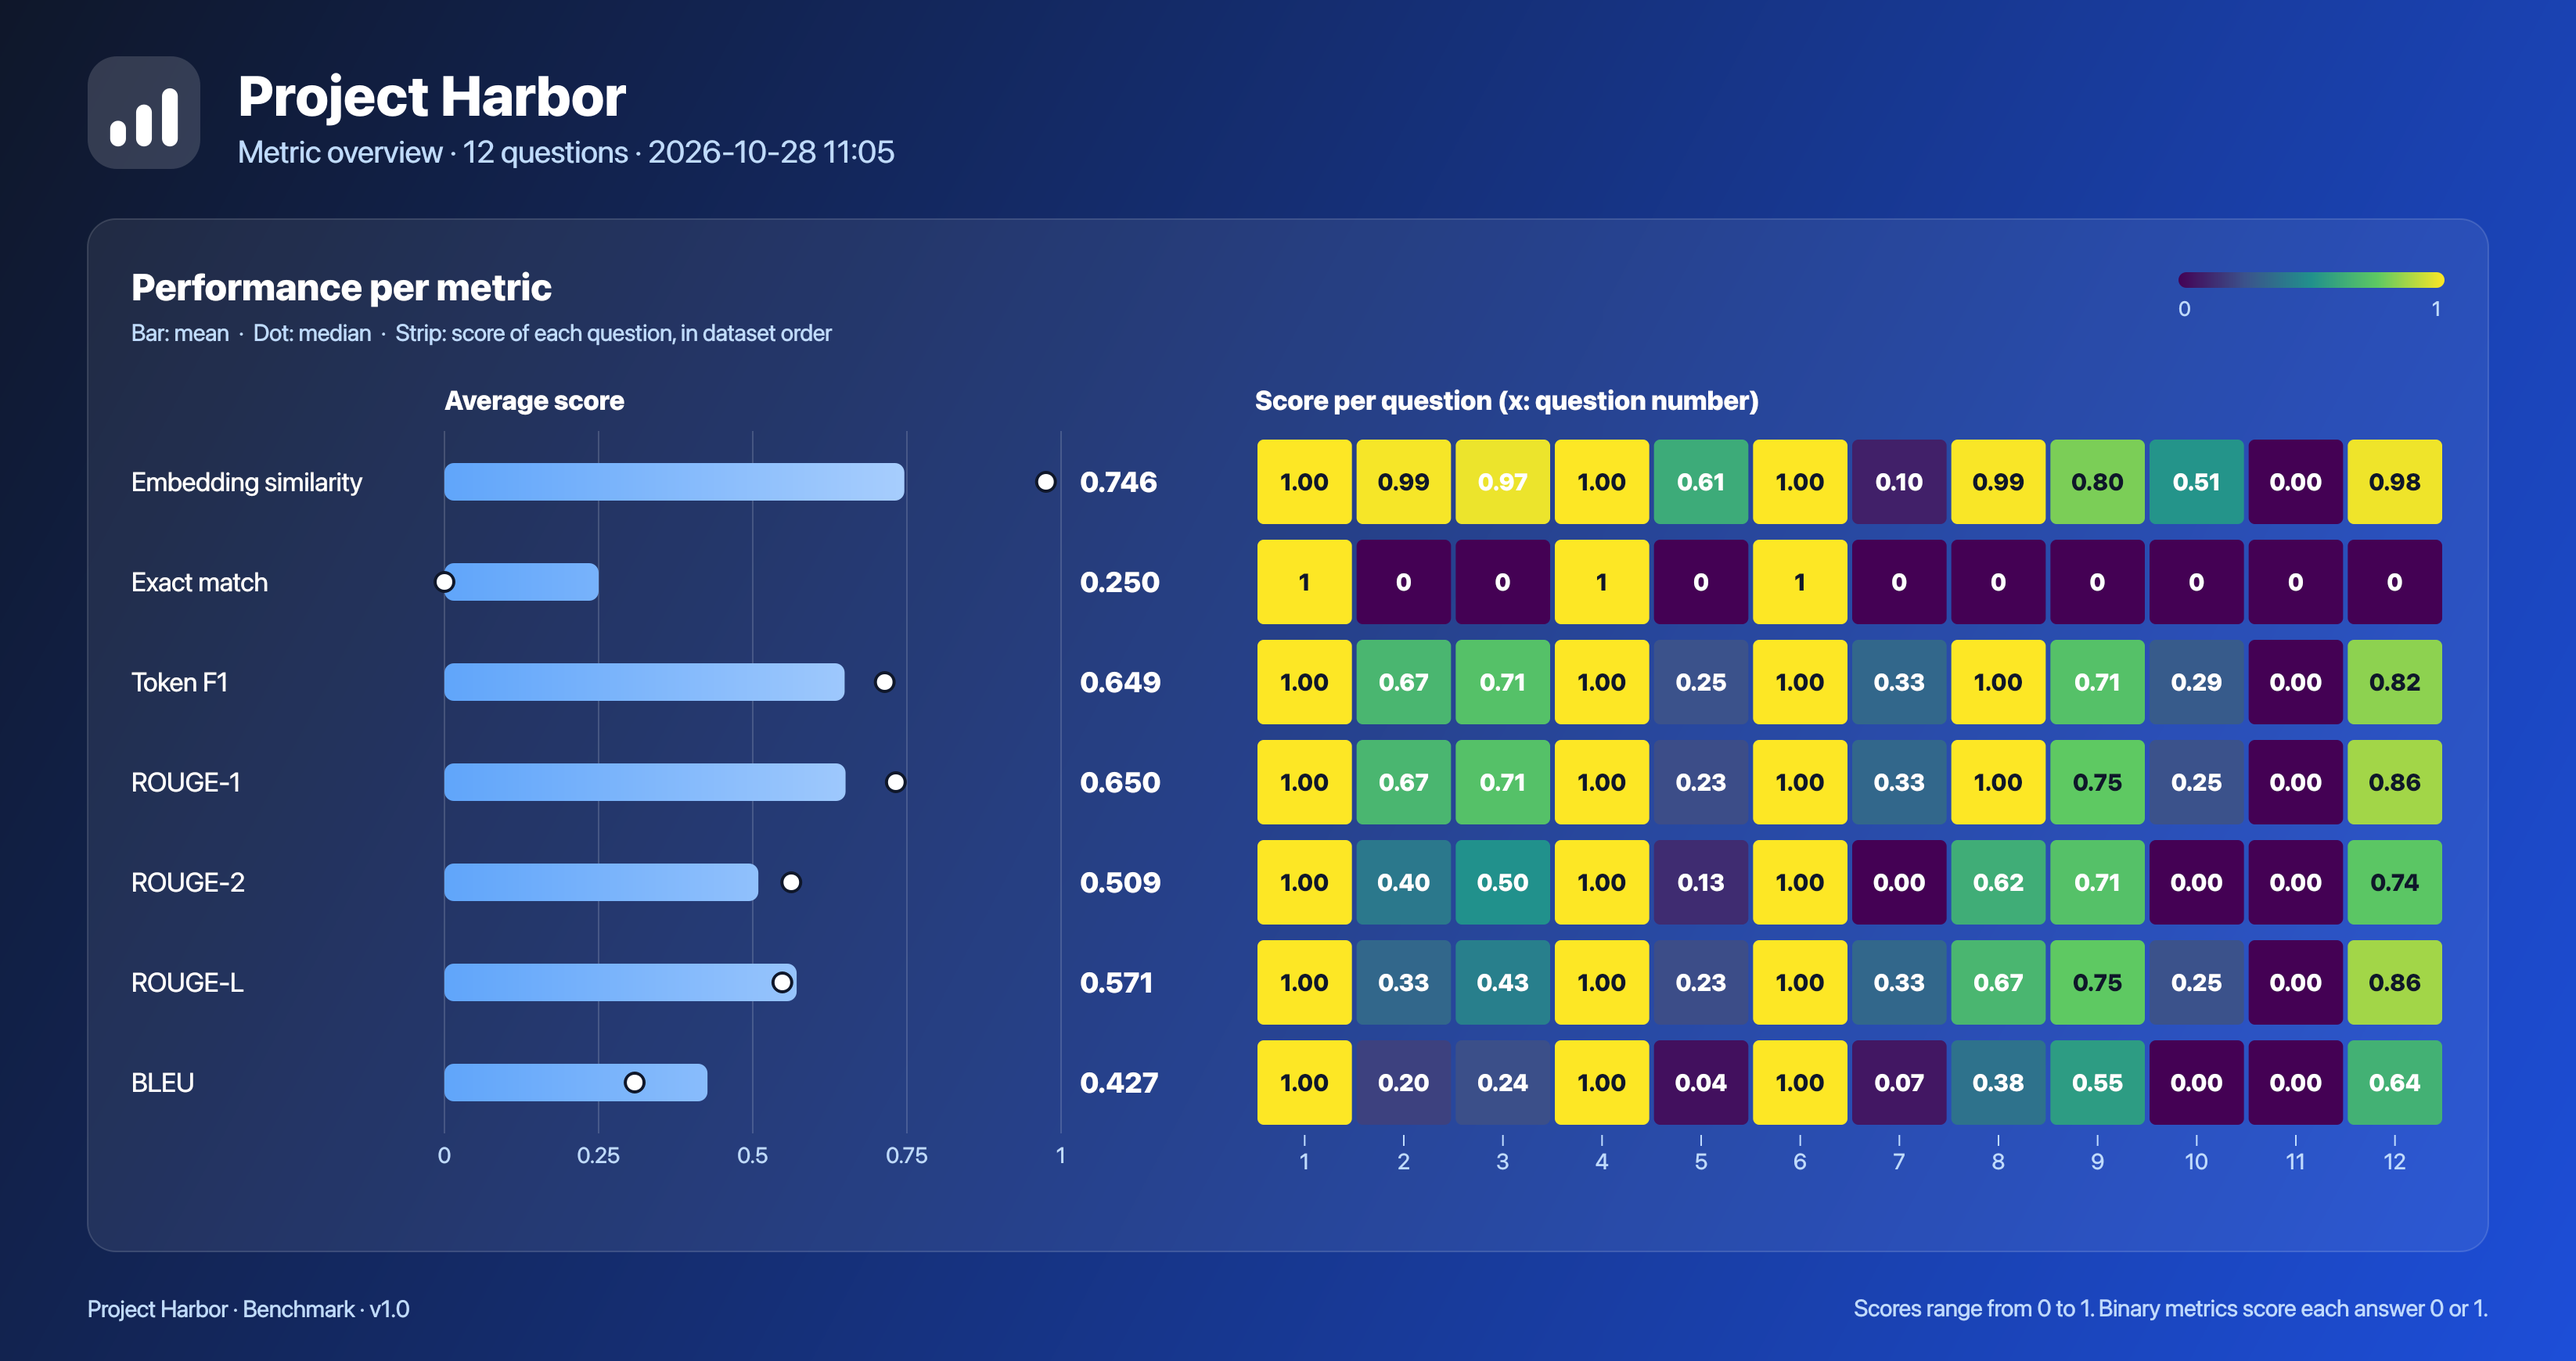
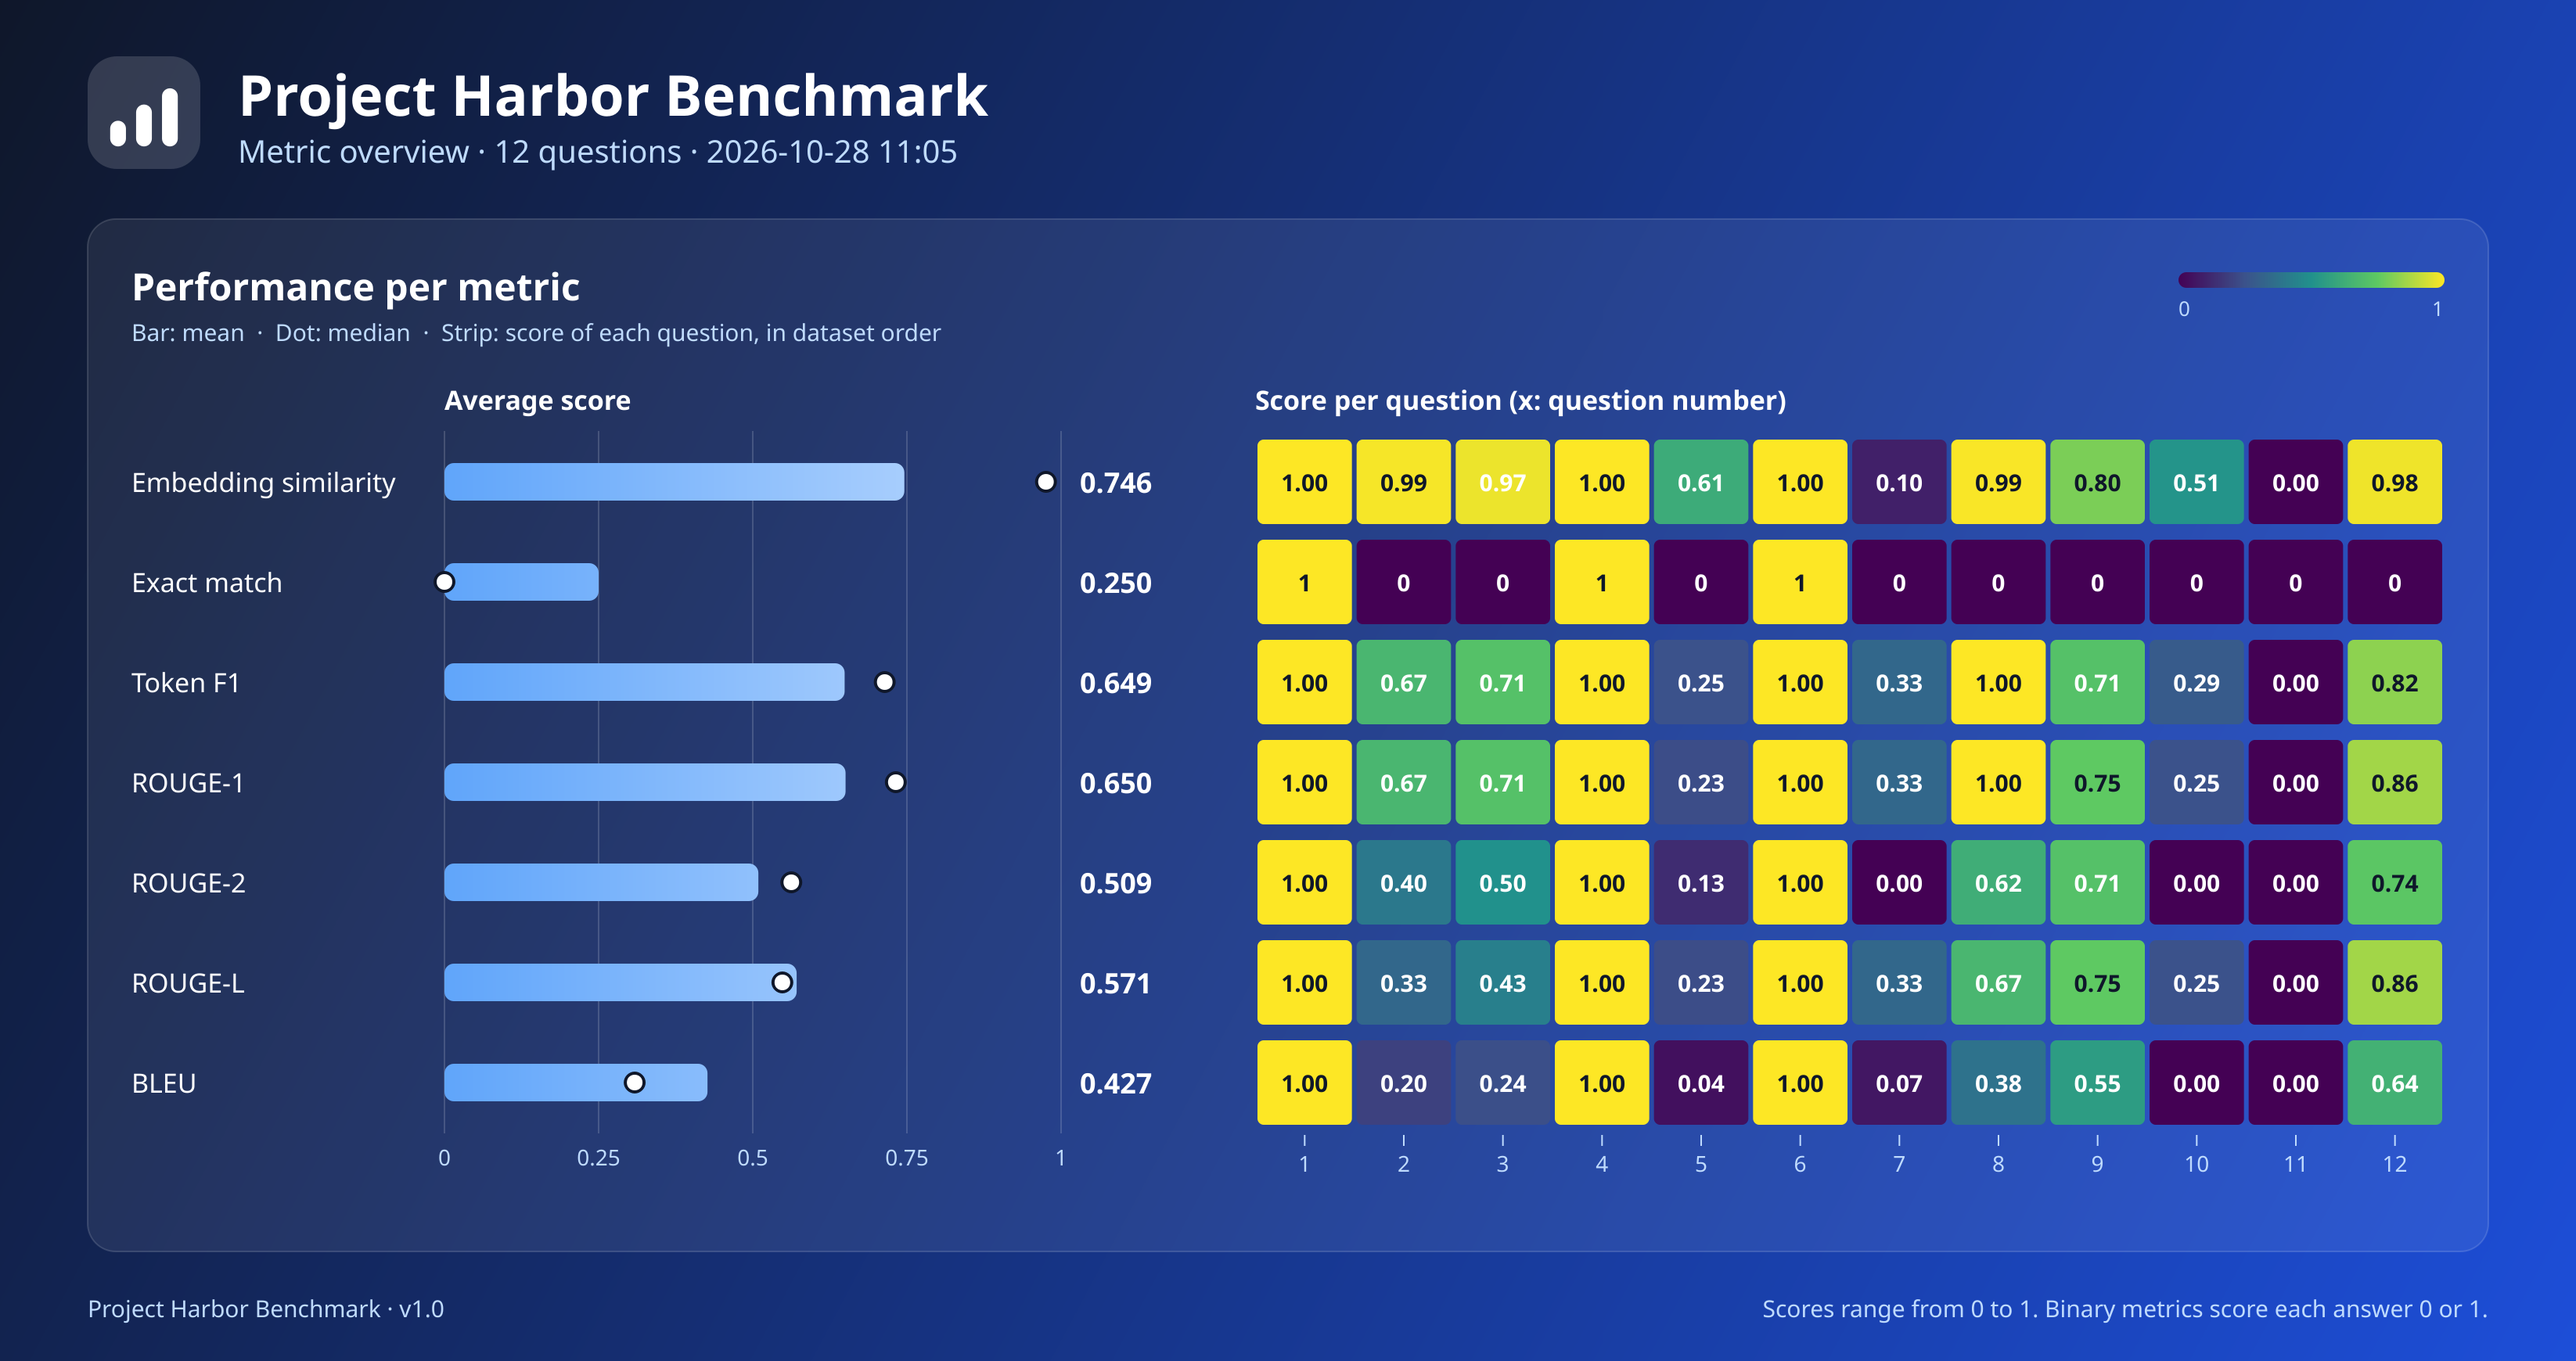
feat: rename app and repository to Project Harbor Benchmark

diff --git a/presentation/views/main_window.py b/presentation/views/main_window.py
@@ -32,7 +32,7 @@ from presentation.views.overview_chart import render_overview_chart
 from presentation.views.theme import MAIN_WINDOW_STYLE
 from presentation.views.themed_combo_box import ThemedComboBox
 
-WINDOW_TITLE = "Project Harbor - Benchmark - v1.0"
+WINDOW_TITLE = "Project Harbor Benchmark - v1.0"
 DEMO_TITLE_SUFFIX = " (Demo)"
 WINDOW_WIDTH = 1100
 WINDOW_HEIGHT = 820

diff --git a/presentation/views/branding.py b/presentation/views/branding.py
@@ -1,5 +1,5 @@
-APPLICATION_NAME = "Project Harbor"
-APPLICATION_SUBTITLE = "Benchmark · v1.0"
+APPLICATION_NAME = "Project Harbor Benchmark"
+APPLICATION_SUBTITLE = "v1.0"
 
 GRADIENT_START = "#0f172a"
 GRADIENT_END = "#1d4ed8"

diff --git a/README.md b/README.md
@@ -1,8 +1,8 @@
 <div align="center">
 
-<img src="packaging/linux/llm-evaluator.png" alt="Project Harbor logo" width="128" height="128" />
+<img src="packaging/linux/llm-evaluator.png" alt="Project Harbor Benchmark logo" width="128" height="128" />
 
-# Project Harbor
+# Project Harbor Benchmark
 
 ### A desktop benchmark for local LLMs, scored against a fixed question set.
 
@@ -22,12 +22,12 @@
 <br />
 
 <div align="center">
-<img src="docs/assets/overview.png" alt="Metric overview chart exported by Project Harbor" width="900" />
+<img src="docs/assets/overview.png" alt="Metric overview chart exported by Project Harbor Benchmark" width="900" />
 </div>
 
 <br />
 
-Project Harbor lets a team evaluate different LLM approaches on the same dataset in the same way. For each question, the app calls your model through an OpenAI-compatible endpoint (for example `http://127.0.0.1:1234/v1/chat/completions`), compares the answer with the expected one, and scores it from 0 to 1. The embedding model ships inside the app, so there is no internet connection and no external API key involved.
+Project Harbor Benchmark lets a team evaluate different LLM approaches on the same dataset in the same way. For each question, the app calls your model through an OpenAI-compatible endpoint (for example `http://127.0.0.1:1234/v1/chat/completions`), compares the answer with the expected one, and scores it from 0 to 1. The embedding model ships inside the app, so there is no internet connection and no external API key involved.
 
 ## Features
 
@@ -117,7 +117,7 @@ Things to keep in mind when reading the scores:
 
 ## Architecture
 
-Project Harbor follows Clean Architecture with an MVC presentation layer. Dependencies point inward: `presentation → domain ← data`.
+Project Harbor Benchmark follows Clean Architecture with an MVC presentation layer. Dependencies point inward: `presentation → domain ← data`.
 
 ```
 domain/             entities, repository and gateway interfaces, use cases,
